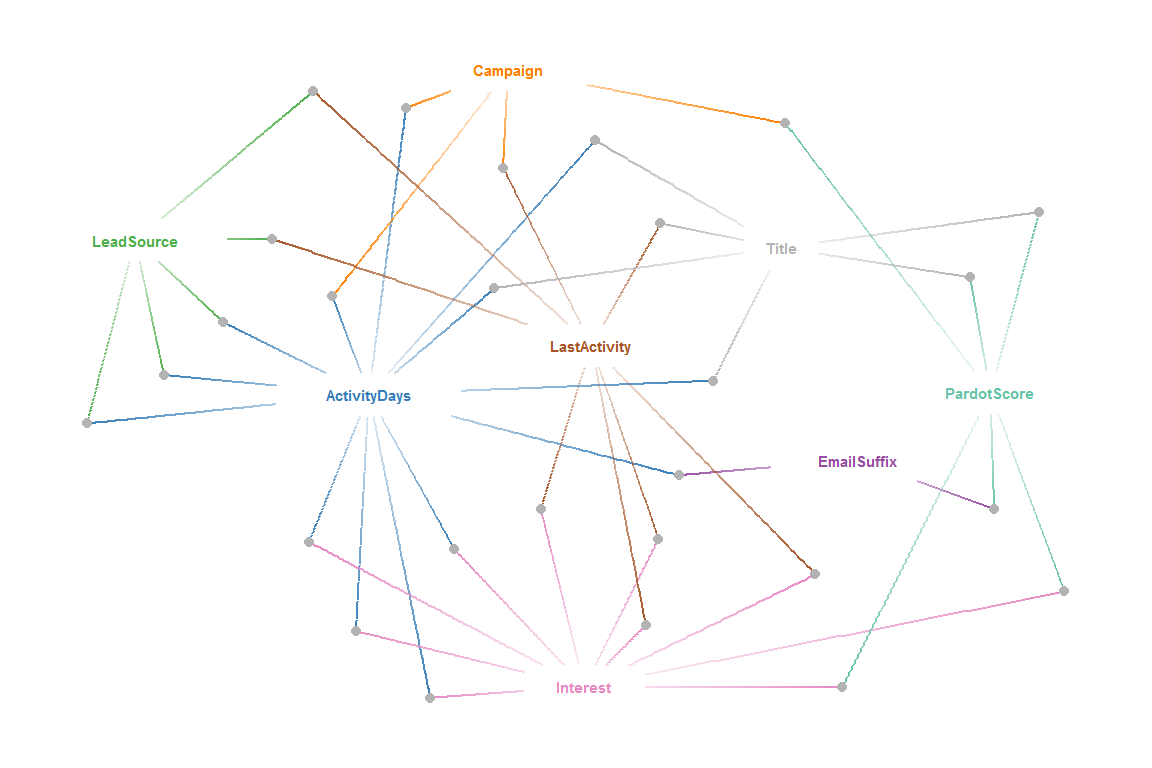
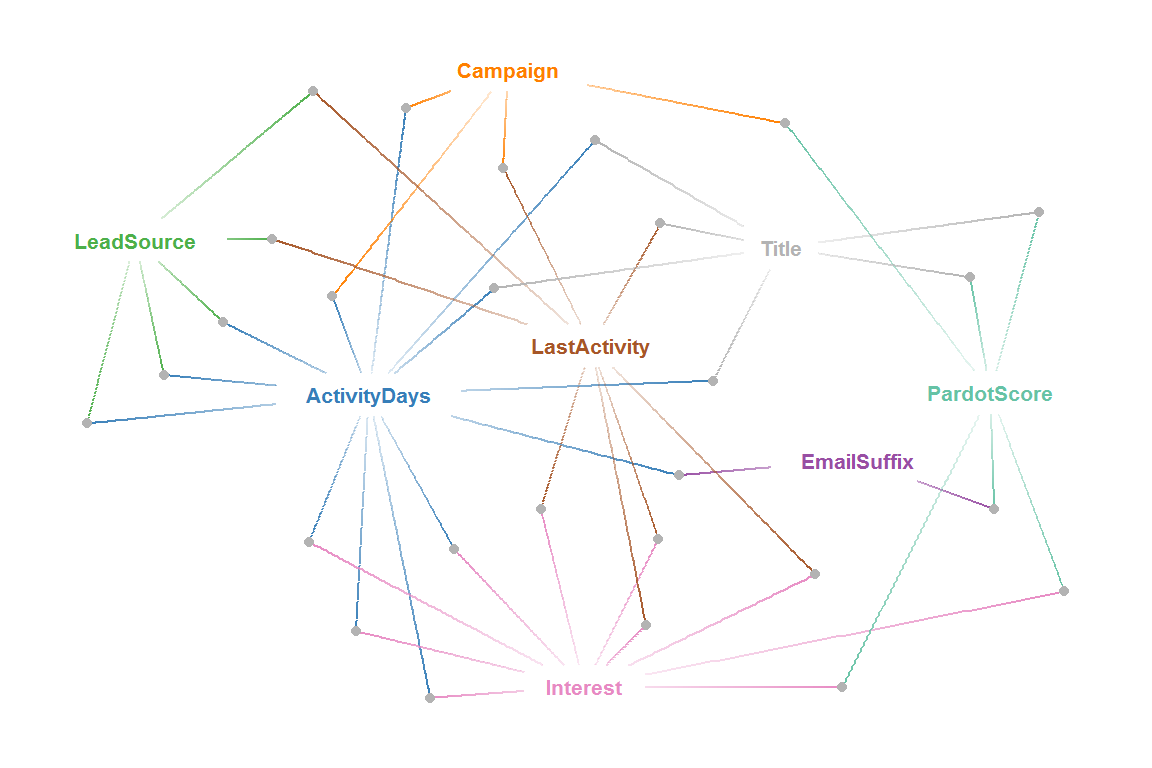
mobile update

diff --git a/demo.html b/demo.html
@@ -2646,8 +2646,10 @@ vrs.prose &lt;-<span class="st"> </span><span class="kw">ifelse</span>(fs <span 
                     <span class="kw">paste</span>(<span class="kw">length</span>(train.vrs),
                           <span class="st">&quot;predictors&quot;</span>))</code></pre></div>
 <p><strong>Final Model:</strong> Random Forest using 55 of 63 predictors selected by the Importance filter.</p>
-<div id="accuracy" class="section level2">
+<div id="accuracy" class="section level2 tabset tabset-pills">
 <h2>Accuracy</h2>
+<div id="by-year" class="section level3">
+<h3>By year</h3>
 <div class="sourceCode"><pre class="sourceCode r"><code class="sourceCode r"><span class="co"># plot accuracy by year</span>
 test.preds <span class="op">%&gt;%</span><span class="st"> </span>
 <span class="st">  </span><span class="kw">mutate</span>(<span class="dt">YearCreated =</span> <span class="kw">factor</span>(YearCreated)) <span class="op">%&gt;%</span><span class="st"> </span>
@@ -2684,9 +2686,12 @@ test.preds <span class="op">%&gt;%</span><span class="st"> </span>
        <span class="dt">y =</span> <span class="st">&quot;Predictions&quot;</span>)<span class="op">+</span>
 <span class="st">  </span><span class="kw">theme</span>(<span class="dt">panel.background =</span>
           <span class="kw">element_rect</span>(<span class="dt">fill =</span> <span class="st">&quot;white&quot;</span>,
-                       <span class="dt">colour =</span> <span class="st">&quot;grey50&quot;</span>))
-
-<span class="co"># plot confusion matrix</span>
+                       <span class="dt">colour =</span> <span class="st">&quot;grey50&quot;</span>))</code></pre></div>
+<p><img src="demo_files/figure-html/testplots-1.png" width="576" /></p>
+</div>
+<div id="confusion-matrix" class="section level3">
+<h3>Confusion Matrix</h3>
+<div class="sourceCode"><pre class="sourceCode r"><code class="sourceCode r"><span class="co"># plot confusion matrix</span>
 <span class="kw">conf_mat</span>(test.preds, label, .pred_class)[[<span class="dv">1</span>]] <span class="op">%&gt;%</span><span class="st"> </span>
 <span class="st">  </span><span class="kw">as_tibble</span>() <span class="op">%&gt;%</span><span class="st"> </span>
 <span class="st">  </span><span class="kw">ggplot</span>(<span class="kw">aes</span>(Prediction, Truth))<span class="op">+</span>
@@ -2712,10 +2717,13 @@ test.preds <span class="op">%&gt;%</span><span class="st"> </span>
           <span class="kw">element_rect</span>(<span class="dt">fill =</span> <span class="st">&quot;white&quot;</span>,
                        <span class="dt">colour =</span> <span class="st">&quot;grey50&quot;</span>),
         <span class="dt">axis.text =</span> <span class="kw">element_text</span>(<span class="dt">size =</span> <span class="kw">rel</span>(<span class="fl">1.2</span>)))</code></pre></div>
-<p><img src="demo_files/figure-html/testplots-1.png" width="45%" /><img src="demo_files/figure-html/testplots-2.png" width="45%" /></p>
+<p><img src="demo_files/figure-html/confmat-1.png" width="576" /></p>
 </div>
-<div id="performance-curves" class="section level2">
+</div>
+<div id="performance-curves" class="section level2 tabset tabset-pills">
 <h2>Performance Curves</h2>
+<div id="roc-curve" class="section level3">
+<h3>ROC Curve</h3>
 <div class="sourceCode"><pre class="sourceCode r"><code class="sourceCode r"><span class="co"># plot performance curves</span>
 test.preds <span class="op">%&gt;%</span><span class="st"> </span>
 <span class="st">  </span><span class="kw">roc_curve</span>(<span class="dt">truth =</span> label, .pred_Yes) <span class="op">%&gt;%</span><span class="st"> </span>
@@ -2732,8 +2740,7 @@ test.preds <span class="op">%&gt;%</span><span class="st"> </span>
 <span class="st">  </span><span class="kw">scale_color_manual</span>(<span class="dt">values =</span> <span class="kw">c</span>(<span class="st">&quot;Yes&quot;</span> =<span class="st"> &quot;#377EB8&quot;</span>,
                                 <span class="st">&quot;No&quot;</span> =<span class="st"> &quot;#E41A1C&quot;</span>,
                                 <span class="st">&quot;Great&quot;</span> =<span class="st">  &quot;#4DAF4A&quot;</span>))<span class="op">+</span>
-<span class="st">  </span><span class="kw">labs</span>(<span class="dt">title =</span> <span class="st">&quot;ROC&quot;</span>,
-       <span class="dt">subtitle =</span> <span class="kw">paste0</span>(<span class="st">&quot;Area under curve&quot;</span>,
+<span class="st">  </span><span class="kw">labs</span>(<span class="dt">title =</span> <span class="kw">paste0</span>(<span class="st">&quot;Area under curve&quot;</span>,
                         <span class="st">&quot;: &quot;</span>,
                         test.metrics[test.metrics<span class="op">$</span>.metric <span class="op">==</span>
 <span class="st">                                       &quot;roc_auc&quot;</span>,]<span class="op">$</span>.estimate))<span class="op">+</span>
@@ -2742,41 +2749,47 @@ test.preds <span class="op">%&gt;%</span><span class="st"> </span>
                        <span class="dt">colour =</span> <span class="st">&quot;grey50&quot;</span>),
         <span class="dt">axis.text =</span> <span class="kw">element_text</span>(<span class="dt">size =</span> <span class="kw">rel</span>(<span class="dv">1</span>)),
         <span class="dt">panel.grid =</span> <span class="kw">element_blank</span>(),
-        <span class="dt">plot.subtitle =</span> <span class="kw">element_text</span>(<span class="dt">size =</span> <span class="kw">rel</span>(<span class="fl">1.2</span>)))
-
-test.preds <span class="op">%&gt;%</span><span class="st"> </span>
-<span class="st">  </span><span class="kw">pr_curve</span>(<span class="dt">truth =</span> label, .pred_Yes) <span class="op">%&gt;%</span><span class="st"> </span>
-<span class="st">  </span><span class="kw">autoplot</span>()<span class="op">+</span>
-<span class="st">  </span><span class="kw">geom_text</span>(<span class="dt">data =</span> test.metrics <span class="op">%&gt;%</span><span class="st"> </span>
-<span class="st">              </span><span class="kw">filter</span>(.metric <span class="op">==</span><span class="st"> &quot;f_meas&quot;</span>),
-            <span class="kw">aes</span>(<span class="dt">label =</span> <span class="kw">paste0</span>(metric, <span class="st">&quot;: &quot;</span>, .estimate),
-                <span class="dt">color =</span> good,
-                <span class="dt">x =</span> <span class="fl">0.3</span>,
-                <span class="dt">y =</span> <span class="fl">0.2</span>),
-            <span class="dt">size =</span> <span class="dv">6</span>,
-            <span class="dt">fontface =</span> <span class="st">&quot;bold&quot;</span>,
-            <span class="dt">show.legend =</span> F)<span class="op">+</span>
-<span class="st">  </span><span class="kw">scale_color_manual</span>(<span class="dt">values =</span> <span class="kw">c</span>(<span class="st">&quot;Yes&quot;</span> =<span class="st"> &quot;#377EB8&quot;</span>,
-                                <span class="st">&quot;No&quot;</span> =<span class="st"> &quot;#E41A1C&quot;</span>,
-                                <span class="st">&quot;Great&quot;</span> =<span class="st">  &quot;#4DAF4A&quot;</span>))<span class="op">+</span>
-<span class="st">  </span><span class="kw">labs</span>(<span class="dt">title =</span> <span class="st">&quot;Precision Recall Curve&quot;</span>,
-       <span class="dt">subtitle =</span> <span class="kw">paste0</span>(<span class="st">&quot;Area under curve&quot;</span>,
-                        <span class="st">&quot;: &quot;</span>,
-                        test.metrics[test.metrics<span class="op">$</span>.metric <span class="op">==</span>
-<span class="st">                                       &quot;pr_auc&quot;</span>,]<span class="op">$</span>.estimate))<span class="op">+</span>
-<span class="st">  </span><span class="kw">coord_fixed</span>(<span class="dt">ratio =</span> <span class="dv">1</span>, <span class="dt">ylim =</span> <span class="kw">c</span>(<span class="dv">0</span>,<span class="dv">1</span>))<span class="op">+</span>
-<span class="st">  </span><span class="kw">theme</span>(<span class="dt">panel.background =</span>
-          <span class="kw">element_rect</span>(<span class="dt">fill =</span> <span class="st">&quot;white&quot;</span>,
-                       <span class="dt">colour =</span> <span class="st">&quot;grey50&quot;</span>),
-        <span class="dt">axis.text =</span> <span class="kw">element_text</span>(<span class="dt">size =</span> <span class="kw">rel</span>(<span class="dv">1</span>)),
-        <span class="dt">panel.grid =</span> <span class="kw">element_blank</span>(),
-        <span class="dt">plot.subtitle =</span> <span class="kw">element_text</span>(<span class="dt">size =</span> <span class="kw">rel</span>(<span class="fl">1.2</span>)))
-
-test.preds <span class="op">%&gt;%</span><span class="st"> </span>
+        <span class="dt">plot.subtitle =</span> <span class="kw">element_text</span>(<span class="dt">size =</span> <span class="kw">rel</span>(<span class="fl">1.2</span>)))</code></pre></div>
+<p><img src="demo_files/figure-html/roccurve-1.png" width="576" /></p>
+</div>
+<div id="precision-recall-curve" class="section level3">
+<h3>Precision Recall Curve</h3>
+<pre><code>
+test.preds %&gt;% 
+  pr_curve(truth = label, .pred_Yes) %&gt;% 
+  autoplot()+
+  geom_text(data = test.metrics %&gt;% 
+              filter(.metric == &quot;f_meas&quot;),
+            aes(label = paste0(metric, &quot;: &quot;, .estimate),
+                color = good,
+                x = 0.3,
+                y = 0.2),
+            size = 6,
+            fontface = &quot;bold&quot;,
+            show.legend = F)+
+  scale_color_manual(values = c(&quot;Yes&quot; = &quot;#377EB8&quot;,
+                                &quot;No&quot; = &quot;#E41A1C&quot;,
+                                &quot;Great&quot; =  &quot;#4DAF4A&quot;))+
+  labs(title = paste0(&quot;Area under curve&quot;,
+                        &quot;: &quot;,
+                        test.metrics[test.metrics$.metric ==
+                                       &quot;pr_auc&quot;,]$.estimate))+
+  coord_fixed(ratio = 1, ylim = c(0,1))+
+  theme(panel.background =
+          element_rect(fill = &quot;white&quot;,
+                       colour = &quot;grey50&quot;),
+        axis.text = element_text(size = rel(1)),
+        panel.grid = element_blank(),
+        plot.subtitle = element_text(size = rel(1.2)))
+        </code></pre>
+</div>
+<div id="gain-curve" class="section level3">
+<h3>Gain Curve</h3>
+<div class="sourceCode"><pre class="sourceCode r"><code class="sourceCode r">test.preds <span class="op">%&gt;%</span><span class="st"> </span>
 <span class="st">  </span><span class="kw">gain_curve</span>(<span class="dt">truth =</span> label, .pred_Yes) <span class="op">%&gt;%</span><span class="st"> </span>
 <span class="st">  </span><span class="kw">autoplot</span>()<span class="op">+</span>
 <span class="st">  </span><span class="kw">geom_text</span>(<span class="dt">data =</span> test.metrics <span class="op">%&gt;%</span><span class="st"> </span>
-<span class="st">              </span><span class="kw">filter</span>(.metric <span class="op">==</span><span class="st"> &quot;gain_capture&quot;</span>),
+<span class="st">              </span><span class="kw">filter</span>(.metric <span class="op">==</span><span class="st"> &quot;mcc&quot;</span>),
             <span class="kw">aes</span>(<span class="dt">label =</span> <span class="kw">paste0</span>(metric, <span class="st">&quot;: &quot;</span>, .estimate),
                 <span class="dt">color =</span> good,
                 <span class="dt">x =</span> <span class="dv">70</span>,
@@ -2787,15 +2800,21 @@ test.preds <span class="op">%&gt;%</span><span class="st"> </span>
 <span class="st">  </span><span class="kw">scale_color_manual</span>(<span class="dt">values =</span> <span class="kw">c</span>(<span class="st">&quot;Yes&quot;</span> =<span class="st"> &quot;#377EB8&quot;</span>,
                                 <span class="st">&quot;No&quot;</span> =<span class="st"> &quot;#E41A1C&quot;</span>,
                                 <span class="st">&quot;Great&quot;</span> =<span class="st">  &quot;#4DAF4A&quot;</span>))<span class="op">+</span>
-<span class="st">  </span><span class="kw">labs</span>(<span class="dt">title =</span> <span class="st">&quot;Gain&quot;</span>)<span class="op">+</span>
+<span class="st">  </span><span class="kw">labs</span>(<span class="dt">title =</span> <span class="kw">paste0</span>(<span class="st">&quot;Gain Capture&quot;</span>,
+                           <span class="st">&quot;: &quot;</span>,
+                        test.metrics[test.metrics<span class="op">$</span>.metric <span class="op">==</span>
+<span class="st">                                       &quot;gain_capture&quot;</span>,]<span class="op">$</span>.estimate))<span class="op">+</span>
 <span class="st">  </span><span class="kw">theme</span>(<span class="dt">panel.background =</span>
           <span class="kw">element_rect</span>(<span class="dt">fill =</span> <span class="st">&quot;white&quot;</span>,
                        <span class="dt">colour =</span> <span class="st">&quot;grey50&quot;</span>),
         <span class="dt">axis.text =</span> <span class="kw">element_text</span>(<span class="dt">size =</span> <span class="kw">rel</span>(<span class="dv">1</span>)),
         <span class="dt">panel.grid =</span> <span class="kw">element_blank</span>(),
-        <span class="dt">plot.subtitle =</span> <span class="kw">element_text</span>(<span class="dt">size =</span> <span class="kw">rel</span>(<span class="fl">1.2</span>)))
-
-test.preds <span class="op">%&gt;%</span><span class="st"> </span>
+        <span class="dt">plot.subtitle =</span> <span class="kw">element_text</span>(<span class="dt">size =</span> <span class="kw">rel</span>(<span class="fl">1.2</span>)))</code></pre></div>
+<p><img src="demo_files/figure-html/gaincurve-1.png" width="576" /></p>
+</div>
+<div id="lift" class="section level3">
+<h3>Lift</h3>
+<div class="sourceCode"><pre class="sourceCode r"><code class="sourceCode r">test.preds <span class="op">%&gt;%</span><span class="st"> </span>
 <span class="st">  </span><span class="kw">lift_curve</span>(<span class="dt">truth =</span> label, .pred_Yes) <span class="op">%&gt;%</span><span class="st"> </span>
 <span class="st">  </span><span class="kw">autoplot</span>()<span class="op">+</span>
 <span class="st">  </span><span class="kw">geom_text</span>(<span class="dt">data =</span> test.metrics <span class="op">%&gt;%</span><span class="st"> </span>
@@ -2810,14 +2829,18 @@ test.preds <span class="op">%&gt;%</span><span class="st"> </span>
 <span class="st">  </span><span class="kw">scale_color_manual</span>(<span class="dt">values =</span> <span class="kw">c</span>(<span class="st">&quot;Yes&quot;</span> =<span class="st"> &quot;#377EB8&quot;</span>,
                                 <span class="st">&quot;No&quot;</span> =<span class="st"> &quot;#E41A1C&quot;</span>,
                                 <span class="st">&quot;Great&quot;</span> =<span class="st">  &quot;#4DAF4A&quot;</span>))<span class="op">+</span>
-<span class="st">  </span><span class="kw">labs</span>(<span class="dt">title =</span> <span class="st">&quot;Lift&quot;</span>)<span class="op">+</span>
+<span class="st">  </span><span class="kw">labs</span>(<span class="dt">title =</span> <span class="kw">paste0</span>(<span class="st">&quot;Balanced Accuracy&quot;</span>,
+                           <span class="st">&quot;: &quot;</span>,
+                        test.metrics[test.metrics<span class="op">$</span>.metric <span class="op">==</span>
+<span class="st">                                       &quot;bal_accuracy&quot;</span>,]<span class="op">$</span>.estimate))<span class="op">+</span>
 <span class="st">  </span><span class="kw">theme</span>(<span class="dt">panel.background =</span>
           <span class="kw">element_rect</span>(<span class="dt">fill =</span> <span class="st">&quot;white&quot;</span>,
                        <span class="dt">colour =</span> <span class="st">&quot;grey50&quot;</span>),
         <span class="dt">axis.text =</span> <span class="kw">element_text</span>(<span class="dt">size =</span> <span class="kw">rel</span>(<span class="dv">1</span>)),
         <span class="dt">panel.grid =</span> <span class="kw">element_blank</span>(),
         <span class="dt">plot.subtitle =</span> <span class="kw">element_text</span>(<span class="dt">size =</span> <span class="kw">rel</span>(<span class="fl">1.2</span>)))</code></pre></div>
-<p><img src="demo_files/figure-html/testcurves-1.png" width="45%" /><img src="demo_files/figure-html/testcurves-2.png" width="45%" /><img src="demo_files/figure-html/testcurves-3.png" width="45%" /><img src="demo_files/figure-html/testcurves-4.png" width="45%" /></p>
+<p><img src="demo_files/figure-html/lift-1.png" width="576" /></p>
+</div>
 </div>
 <div id="variable-importance" class="section level2">
 <h2>Variable Importance</h2>
@@ -2849,12 +2872,13 @@ final.imp <span class="op">%&gt;%</span><span class="st"> </span>
          <span class="dt">size =</span> <span class="st">&quot;none&quot;</span>,
          <span class="dt">alpha =</span> <span class="st">&quot;none&quot;</span>)<span class="op">+</span>
 <span class="st">  </span><span class="kw">labs</span>(<span class="dt">title =</span> <span class="st">&quot;Normalized Importance&quot;</span>,
+       <span class="dt">subtitle =</span> <span class="st">&quot;Features de-identified&quot;</span>,
        <span class="dt">x =</span> <span class="ot">NULL</span>,
        <span class="dt">y =</span> <span class="ot">NULL</span>)<span class="op">+</span>
 <span class="st">  </span><span class="kw">theme</span>(<span class="dt">panel.background =</span>
           <span class="kw">element_rect</span>(<span class="dt">fill =</span> <span class="st">&quot;white&quot;</span>,
                        <span class="dt">colour =</span> <span class="st">&quot;grey50&quot;</span>),
-        <span class="dt">axis.text =</span> <span class="kw">element_text</span>(<span class="dt">size =</span> <span class="kw">rel</span>(<span class="fl">0.6</span>)))</code></pre></div>
+        <span class="dt">axis.text =</span> <span class="kw">element_text</span>(<span class="dt">size =</span> <span class="kw">rel</span>(<span class="fl">0.5</span>)))</code></pre></div>
 <p><img src="demo_files/figure-html/varimp-1.png" width="576" /></p>
 </div>
 <div id="test-predictions" class="section level2">
@@ -3173,7 +3197,7 @@ objs.model <span class="op">%&gt;%</span><span class="st"> </span>
         <span class="dt">panel.spacing =</span> <span class="kw">unit</span>(<span class="dv">0</span>, <span class="st">&quot;lines&quot;</span>))</code></pre></div>
 <p><img src="demo_files/figure-html/indicatorPlot-1.png" width="576" /></p>
 </div>
-<div id="numeric-variables" class="section level2 tabset">
+<div id="numeric-variables" class="section level2 tabset tabset-pills">
 <h2>Numeric Variables</h2>
 <div class="sourceCode"><pre class="sourceCode r"><code class="sourceCode r"><span class="co"># numeric predictors</span>
 num.preds &lt;-<span class="st"> </span>objs.model <span class="op">%&gt;%</span><span class="st"> </span>
@@ -3239,7 +3263,7 @@ num.preds &lt;-<span class="st"> </span>objs.model <span class="op">%&gt;%</span
 <p><img src="demo_files/figure-html/unnamed-chunk-1-1.png" width="576" /></p>
 </div>
 </div>
-<div id="level-aggregation" class="section level2 tabset">
+<div id="level-aggregation" class="section level2 tabset tabset-pills">
 <h2>Level Aggregation</h2>
 <p>Original responses suppressed</p>
 <div id="leadsource" class="section level3">
@@ -3466,7 +3490,7 @@ vrs.mat <span class="op">%&gt;%</span><span class="st"> </span>
 <span class="st">  </span><span class="kw">geom_node_text</span>(<span class="kw">aes</span>(<span class="dt">filter =</span> base,
                       <span class="dt">label =</span> name, 
                       <span class="dt">color =</span> name),
-                 <span class="dt">size =</span> <span class="dv">2</span>,
+                 <span class="dt">size =</span> <span class="fl">2.75</span>,
                  <span class="dt">fontface =</span> <span class="st">&quot;bold&quot;</span>, 
                  <span class="dt">show.legend =</span> F)<span class="op">+</span>
 <span class="st">  </span><span class="kw">guides</span>(<span class="dt">edge_color =</span><span class="st">&quot;none&quot;</span>)<span class="op">+</span>
@@ -3501,44 +3525,46 @@ vrs.mat <span class="op">%&gt;%</span><span class="st"> </span>
 ## [1] stats     graphics  grDevices utils     datasets  methods   base     
 ## 
 ## other attached packages:
-##  [1] dials_0.0.2          scales_1.0.0         rsample_0.0.4       
-##  [4] yardstick_0.0.2.9000 recipes_0.1.4.9000   parsnip_0.0.1       
-##  [7] ggraph_1.0.2         tidygraph_1.1.1      Boruta_6.0.0        
-## [10] xgboost_0.82.1       kernlab_0.9-27       ranger_0.10.1       
-## [13] RForcecom_1.1        forcats_0.3.0        stringr_1.3.1       
-## [16] dplyr_0.8.0.1        purrr_0.3.1          readr_1.1.1         
-## [19] tidyr_0.8.3          tibble_2.0.1         ggplot2_3.0.0       
-## [22] tidyverse_1.2.1      data.table_1.11.6   
+##  [1] caret_6.0-80         lattice_0.20-35      forcats_0.3.0       
+##  [4] stringr_1.3.1        purrr_0.3.1          readr_1.1.1         
+##  [7] tibble_2.0.1         tidyverse_1.2.1      dials_0.0.2         
+## [10] scales_1.0.0         rsample_0.0.4        tidyr_0.8.3         
+## [13] yardstick_0.0.2.9000 recipes_0.1.4.9000   dplyr_0.8.0.1       
+## [16] parsnip_0.0.1        ggraph_1.0.2         ggplot2_3.0.0       
+## [19] tidygraph_1.1.1      Boruta_6.0.0         xgboost_0.82.1      
+## [22] kernlab_0.9-27       ranger_0.10.1        RForcecom_1.1       
 ## 
 ## loaded via a namespace (and not attached):
-##  [1] nlme_3.1-137        bitops_1.0-6        lubridate_1.7.4    
-##  [4] RColorBrewer_1.1-2  httr_1.3.1          tools_3.5.1        
-##  [7] backports_1.1.2     R6_2.2.2            rpart_4.1-13       
-## [10] Hmisc_4.1-1         lazyeval_0.2.1      mgcv_1.8-24        
-## [13] colorspace_1.3-2    nnet_7.3-12         withr_2.1.2        
-## [16] tidyselect_0.2.5    gridExtra_2.3       curl_3.2           
-## [19] compiler_3.5.1      cli_1.0.1           rvest_0.3.2        
-## [22] htmlTable_1.12      xml2_1.2.0          labeling_0.3       
-## [25] checkmate_1.8.5     digest_0.6.17       foreign_0.8-70     
-## [28] rmarkdown_1.12      base64enc_0.1-3     pkgconfig_2.0.2    
-## [31] htmltools_0.3.6     htmlwidgets_1.2     rlang_0.3.1        
-## [34] readxl_1.1.0        rstudioapi_0.7      farver_1.1.0       
-## [37] generics_0.0.2      jsonlite_1.5        acepack_1.4.1      
-## [40] RCurl_1.95-4.11     magrittr_1.5        Formula_1.2-3      
-## [43] Matrix_1.2-14       Rcpp_1.0.0          munsell_0.5.0      
-## [46] viridis_0.5.1       pROC_1.13.0         stringi_1.2.4      
-## [49] yaml_2.2.0          MASS_7.3-50         plyr_1.8.4         
-## [52] grid_3.5.1          ggrepel_0.8.0       crayon_1.3.4       
-## [55] lattice_0.20-35     haven_1.1.2         splines_3.5.1      
-## [58] hms_0.4.2           knitr_1.22          pillar_1.3.1       
-## [61] igraph_1.2.2        reshape2_1.4.3      XML_3.98-1.16      
-## [64] glue_1.3.0          evaluate_0.13       latticeExtra_0.6-28
-## [67] modelr_0.1.2        tweenr_1.0.0        cellranger_1.1.0   
-## [70] gtable_0.2.0        assertthat_0.2.0    gower_0.2.0        
-## [73] xfun_0.5            ggforce_0.1.3       prodlim_2018.04.18 
-## [76] broom_0.5.0         class_7.3-14        survival_2.42-3    
-## [79] viridisLite_0.3.0   timeDate_3043.102   lava_1.6.3         
-## [82] units_0.6-1         cluster_2.0.7-1     ipred_0.9-8</code></pre>
+##  [1] colorspace_1.3-2    class_7.3-14        htmlTable_1.12     
+##  [4] base64enc_0.1-3     rstudioapi_0.7      farver_1.1.0       
+##  [7] ggrepel_0.8.0       prodlim_2018.04.18  lubridate_1.7.4    
+## [10] xml2_1.2.0          codetools_0.2-15    splines_3.5.1      
+## [13] knitr_1.22          Formula_1.2-3       jsonlite_1.5       
+## [16] pROC_1.13.0         broom_0.5.0         cluster_2.0.7-1    
+## [19] ggforce_0.1.3       compiler_3.5.1      httr_1.3.1         
+## [22] backports_1.1.2     assertthat_0.2.0    Matrix_1.2-14      
+## [25] lazyeval_0.2.1      cli_1.0.1           tweenr_1.0.0       
+## [28] acepack_1.4.1       htmltools_0.3.6     tools_3.5.1        
+## [31] igraph_1.2.2        gtable_0.2.0        glue_1.3.0         
+## [34] reshape2_1.4.3      Rcpp_1.0.0          cellranger_1.1.0   
+## [37] nlme_3.1-137        iterators_1.0.10    timeDate_3043.102  
+## [40] gower_0.2.0         xfun_0.5            rvest_0.3.2        
+## [43] XML_3.98-1.16       MASS_7.3-50         ipred_0.9-8        
+## [46] hms_0.4.2           RColorBrewer_1.1-2  yaml_2.2.0         
+## [49] curl_3.2            gridExtra_2.3       rpart_4.1-13       
+## [52] latticeExtra_0.6-28 stringi_1.2.4       foreach_1.4.4      
+## [55] checkmate_1.8.5     e1071_1.7-0         lava_1.6.3         
+## [58] rlang_0.3.1         pkgconfig_2.0.2     bitops_1.0-6       
+## [61] evaluate_0.13       htmlwidgets_1.2     labeling_0.3       
+## [64] tidyselect_0.2.5    plyr_1.8.4          magrittr_1.5       
+## [67] R6_2.2.2            generics_0.0.2      Hmisc_4.1-1        
+## [70] pillar_1.3.1        haven_1.1.2         foreign_0.8-70     
+## [73] withr_2.1.2         units_0.6-1         survival_2.42-3    
+## [76] RCurl_1.95-4.11     nnet_7.3-12         modelr_0.1.2       
+## [79] crayon_1.3.4        rmarkdown_1.12      viridis_0.5.1      
+## [82] grid_3.5.1          readxl_1.1.0        data.table_1.11.6  
+## [85] ModelMetrics_1.2.0  digest_0.6.17       stats4_3.5.1       
+## [88] munsell_0.5.0       glmnet_2.0-16       viridisLite_0.3.0</code></pre>
 </div>
 </div>
 

diff --git a/data.html b/data.html
@@ -669,9 +669,11 @@ aff.mu.npi.cnt &lt;-<span class="st"> </span>aff.mu.npi[,
                        <span class="dt">colour =</span> <span class="st">&quot;grey50&quot;</span>))</code></pre></div>
 <p><img src="data_files/figure-html/sct-1.png" width="576" /></p>
 </div>
-<div id="providers" class="section level2">
+<div id="providers" class="section level2 tabset tabset-pills">
 <h2>Providers</h2>
 <p>68% of physician affiliations involve multiple EHR vendors.</p>
+<div id="single-affiliation" class="section level3">
+<h3>Single Affiliation</h3>
 <div class="sourceCode"><pre class="sourceCode r"><code class="sourceCode r">aff.mu.npi.cnt <span class="op">%&gt;%</span><span class="st"> </span>
 <span class="st">  </span><span class="kw">filter</span>(Affiliated <span class="op">==</span><span class="st"> </span><span class="dv">1</span>) <span class="op">%&gt;%</span><span class="st"> </span>
 <span class="st">  </span><span class="kw">mutate</span>(<span class="dt">Same =</span> Vendors <span class="op">==</span><span class="st"> </span><span class="dv">0</span>) <span class="op">%&gt;%</span>
@@ -703,9 +705,12 @@ aff.mu.npi.cnt &lt;-<span class="st"> </span>aff.mu.npi[,
        <span class="dt">x =</span> <span class="st">&quot;Reported Use of same EHR as Affiliated Hospital&quot;</span>)<span class="op">+</span>
 <span class="st">  </span><span class="kw">theme</span>(<span class="dt">panel.background =</span>
           <span class="kw">element_rect</span>(<span class="dt">fill =</span> <span class="st">&quot;white&quot;</span>,
-                       <span class="dt">colour =</span> <span class="st">&quot;grey50&quot;</span>))
-
-aff.mu.npi.cnt <span class="op">%&gt;%</span><span class="st"> </span>
+                       <span class="dt">colour =</span> <span class="st">&quot;grey50&quot;</span>))</code></pre></div>
+<p><img src="data_files/figure-html/physplots-1.png" width="576" /></p>
+</div>
+<div id="multiple-affiliations" class="section level3">
+<h3>Multiple Affiliations</h3>
+<div class="sourceCode"><pre class="sourceCode r"><code class="sourceCode r">aff.mu.npi.cnt <span class="op">%&gt;%</span><span class="st"> </span>
 <span class="st">  </span><span class="kw">filter</span>(Affiliated <span class="op">&gt;</span><span class="st"> </span><span class="dv">1</span>) <span class="op">%&gt;%</span><span class="st"> </span>
 <span class="st">  </span><span class="kw">mutate</span>(<span class="dt">Same =</span> Vendors <span class="op">==</span><span class="st"> </span><span class="dv">0</span>) <span class="op">%&gt;%</span>
 <span class="st">  </span><span class="kw">select</span>(NPI, Same) <span class="op">%&gt;%</span><span class="st"> </span>
@@ -738,7 +743,8 @@ aff.mu.npi.cnt <span class="op">%&gt;%</span><span class="st"> </span>
 <span class="st">  </span><span class="kw">theme</span>(<span class="dt">panel.background =</span>
           <span class="kw">element_rect</span>(<span class="dt">fill =</span> <span class="st">&quot;white&quot;</span>,
                        <span class="dt">colour =</span> <span class="st">&quot;grey50&quot;</span>))</code></pre></div>
-<p><img src="data_files/figure-html/physplots-1.png" width="45%" /><img src="data_files/figure-html/physplots-2.png" width="45%" /></p>
+<p><img src="data_files/figure-html/mutaff-1.png" width="576" /></p>
+</div>
 </div>
 <div id="additional-ehrs" class="section level2">
 <h2>Additional EHRs</h2>
@@ -829,7 +835,7 @@ mu.vend <span class="op">%&gt;%</span><span class="st"> </span>
 <p><img src="data_files/figure-html/byvend-1.png" width="576" /></p>
 </div>
 </div>
-<div id="vendor-market-share" class="section level1 tabset">
+<div id="vendor-market-share" class="section level1 tabset tabset-pills">
 <h1>Vendor Market Share</h1>
 <div id="inpatient" class="section level2">
 <h2>Inpatient</h2>

diff --git a/index.html b/index.html
@@ -330,13 +330,13 @@ $(document).ready(function () {
 <p><strong><a href="https://mschuchardt.github.io/match.html">data-driven matching</a></strong></p>
 <p>Flexible / Fuzzy string matching on name and address using term frequency/inverse document frequency.</p>
 <ul>
-<li>Used in-production matching on 100K records<br />
+<li>Used in-production matching on 100K+ records<br />
 </li>
-<li>Can be executed in SQL<br />
+<li>Can be executed 100% in SQL to 100% in R<br />
 </li>
 <li>A publically available data set is matched to data from the web</li>
 </ul>
-<p>Literate programming is used throughout.</p>
+<p><em>Literate R programming used throughout</em></p>
 
 
 
